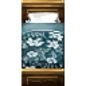
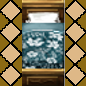
Added new tiles to levels

diff --git a/BlindTransButch/BlindTransButch/Grid.cpp b/BlindTransButch/BlindTransButch/Grid.cpp
@@ -24,11 +24,10 @@ void Grid::initialise(int level)
 	//Tile textures
 	std::string floorTexturePath = "ASSETS//IMAGES//floor2.png";
 	std::string wallTexturePath = "ASSETS//IMAGES//wall.png";
-	std::string exitTexturePath = "ASSETS//IMAGES//floor2.png";
-	std::string tableTexturePath = "ASSETS//IMAGES//FLOOR.png";
-	std::string chairTexturePath = "ASSETS//IMAGES//FLOOR.png";
-	std::string bedTexturePath = "ASSETS//IMAGES//FLOOR.png";
-	std::string radioTexturePath = "ASSETS//IMAGES//FLOOR.png";
+	std::string exitTexturePath = "ASSETS//IMAGES//exit.png";
+	std::string tableTexturePath = "ASSETS//IMAGES//table.png";
+	std::string chairTexturePath = "ASSETS//IMAGES//chair.png";
+	std::string bedTexturePath = "ASSETS//IMAGES//bed.png";
 	//Load the level grid from a text file
 	switch (level)
 	{
@@ -63,8 +62,6 @@ void Grid::initialise(int level)
 	if (!chairTexture.loadFromFile(chairTexturePath)) { std::cout << chairTexturePath << std::endl; }
 	sf::Texture bedTexture;
 	if (!bedTexture.loadFromFile(bedTexturePath)) { std::cout << bedTexturePath << std::endl; }
-	sf::Texture radioTexture;
-	if (!radioTexture.loadFromFile(radioTexturePath)) { std::cout << radioTexturePath << std::endl; }
 
 	m_width = 14;
 	m_height = 8;
@@ -75,7 +72,6 @@ void Grid::initialise(int level)
 		std::make_shared<sf::Texture>(tableTexture),
 		std::make_shared<sf::Texture>(chairTexture),
 		std::make_shared<sf::Texture>(bedTexture),
-		std::make_shared<sf::Texture>(radioTexture),
 		86);
 	tCount = 0;
 	map.clear();
@@ -100,9 +96,6 @@ void Grid::initialise(int level)
 				break;
 			case 5:
 				tempTile.setType(Tile::BED);
-				break;
-			case 6:
-				tempTile.setType(Tile::RADIO);
 				break;
 			default:
 				tempTile.setType(Tile::DEFAULT);

diff --git a/BlindTransButch/BlindTransButch/Tile.cpp b/BlindTransButch/BlindTransButch/Tile.cpp
@@ -8,7 +8,6 @@ Tile::Tile(sf::Vector2f position,
 	std::shared_ptr<sf::Texture> _tableTexture,
 	std::shared_ptr<sf::Texture> _chairTexture,
 	std::shared_ptr<sf::Texture> _bedTexture,
-	std::shared_ptr<sf::Texture> _radioTexture,
 	int const size = 86) :
 	m_position(position), m_size(size, size)
 {
@@ -18,7 +17,6 @@ Tile::Tile(sf::Vector2f position,
 	chairTexture = _chairTexture;
 	tableTexture = _tableTexture;
 	bedTexture = _bedTexture;
-	radioTexture = _radioTexture;
 	
 	m_TileSprite.setTexture(*floorTexture);
 	//m_TileSprite.setOrigin(floorTexture->getSize().x / 2, floorTexture->getSize().y / 2);
@@ -43,9 +41,6 @@ void Tile::setType(Tile::TileType newType)
 	bounds.height = 86;
 	switch (newType)
 	{
-	case Tile::RADIO:
-		m_TileSprite.setTexture(*radioTexture);
-		break;
 	case Tile::BED:
 		m_TileSprite.setTexture(*bedTexture);
 		break;

diff --git a/BlindTransButch/BlindTransButch/game.cpp b/BlindTransButch/BlindTransButch/game.cpp
@@ -167,7 +167,7 @@ void Game::checkCollision()
 				}
 			}
 		}
-		if (cManager.checkCollision(m_player.m_body, world.map.at(i)->bounds) && world.map.at(i)->tileType != Tile::DEFAULT)
+		if (cManager.checkCollision(m_player.m_body, world.map.at(i)->bounds) && world.map.at(i)->tileType != Tile::DEFAULT && world.map.at(i)->tileType != Tile::EXIT)
 		{
 			float offsetX = cManager.getHorizontalIntersectionDepth(cManager.asFloatRect(m_player.m_body), cManager.asFloatRect(world.map.at(i)->bounds));
 			float offsetY = cManager.getVerticalIntersectionDepth(cManager.asFloatRect(m_player.m_body), cManager.asFloatRect(world.map.at(i)->bounds));

diff --git a/BlindTransButch/BlindTransButch/Tile.h b/BlindTransButch/BlindTransButch/Tile.h
@@ -19,7 +19,6 @@ public:
 		std::shared_ptr<sf::Texture> _tableTexture,
 		std::shared_ptr<sf::Texture> _chairTexture,
 		std::shared_ptr<sf::Texture> _bedTexture,
-		std::shared_ptr<sf::Texture> _radioTexture,
 		int const size);
 	~Tile();
 
@@ -35,10 +34,8 @@ public:
 	std::shared_ptr<sf::Texture> chairTexture;
 	std::shared_ptr<sf::Texture> tableTexture;
 	std::shared_ptr<sf::Texture> bedTexture;
-	std::shared_ptr<sf::Texture> radioTexture;
 	enum TileType 
 	{ 
-		RADIO,
 		BED, 
 		TABLE,
 		CHAIR,

diff --git a/BlindTransButch/BlindTransButch/Grid.h b/BlindTransButch/BlindTransButch/Grid.h
@@ -42,7 +42,6 @@ public:
 	std::string tableTexturePath;
 	std::string chairTexturePath;
 	std::string bedTexturePath;
-	std::string radioTexturePath;
 
 	std::vector<std::shared_ptr<Tile>> map;
 	int tCount = 0;
